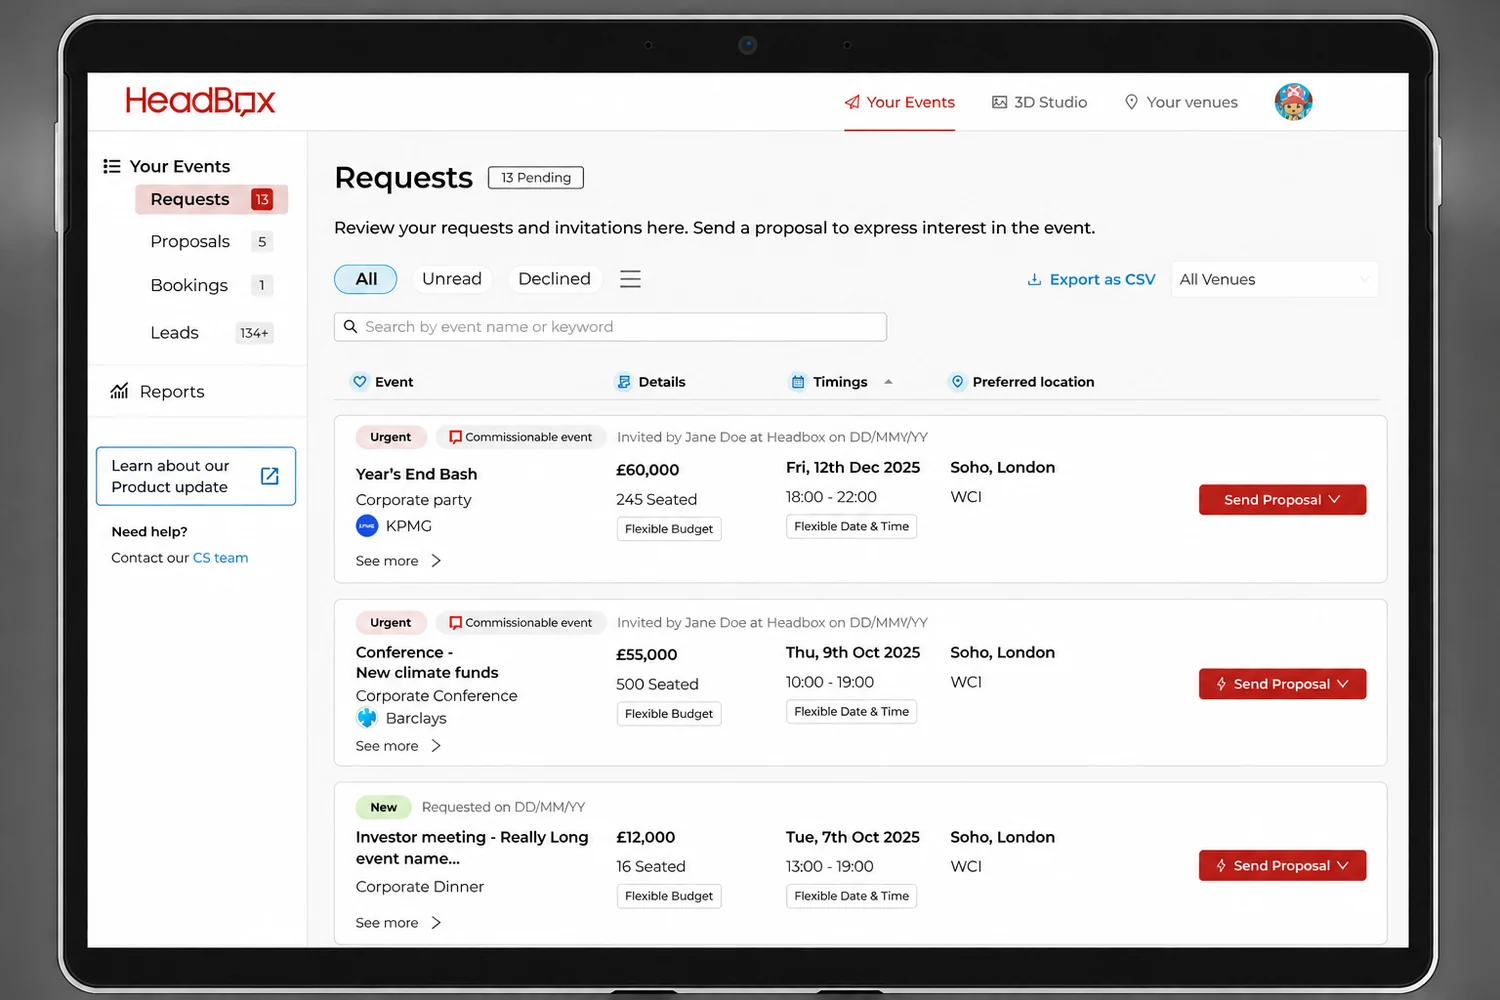
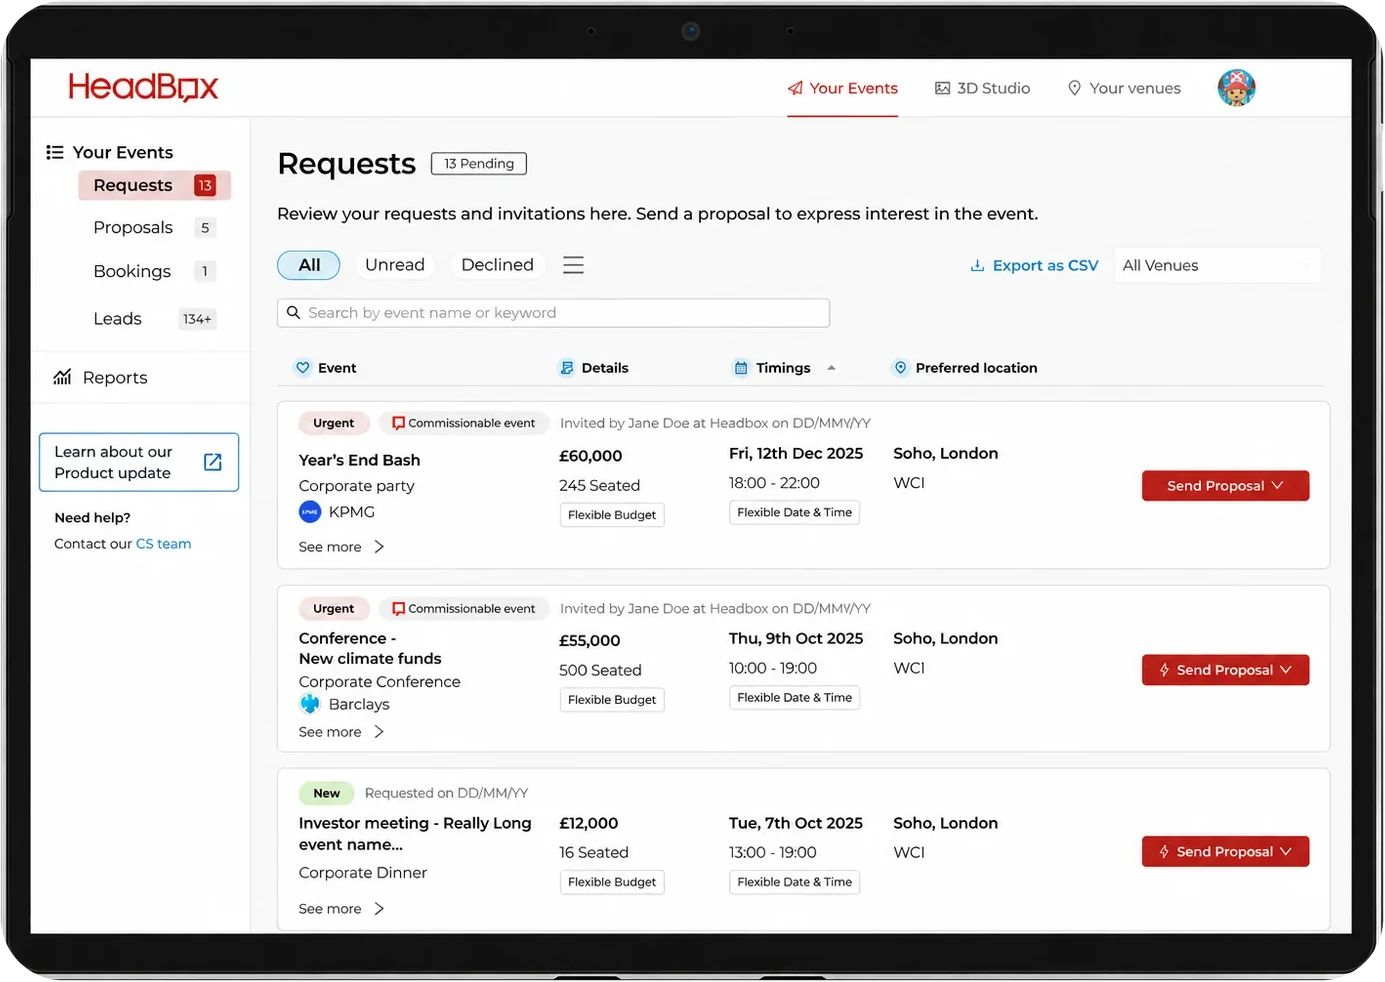
Make the MVP Dashboard UI image background transparent
Claude-Session: https://claude.ai/code/session_01M3sQFEaxMFSCL1fvnxLDvQ

diff --git a/src/data/caseStudyPages.ts b/src/data/caseStudyPages.ts
@@ -226,8 +226,8 @@ export const caseStudyPages: Record<CaseStudyId, CaseStudyPage> = {
           src: hosthqMvpDashboard,
           alt: 'The HostHQ Requests screen on a tablet: a list of event requests with budgets, dates and locations, Urgent and Commissionable event tags, and a Send Proposal button on each. The Your Events menu lists Requests, Proposals, Bookings and Leads.',
           caption: 'MVP Dashboard UI',
-          width: 1500,
-          height: 1000,
+          width: 1385,
+          height: 982,
         },
       },
       {
